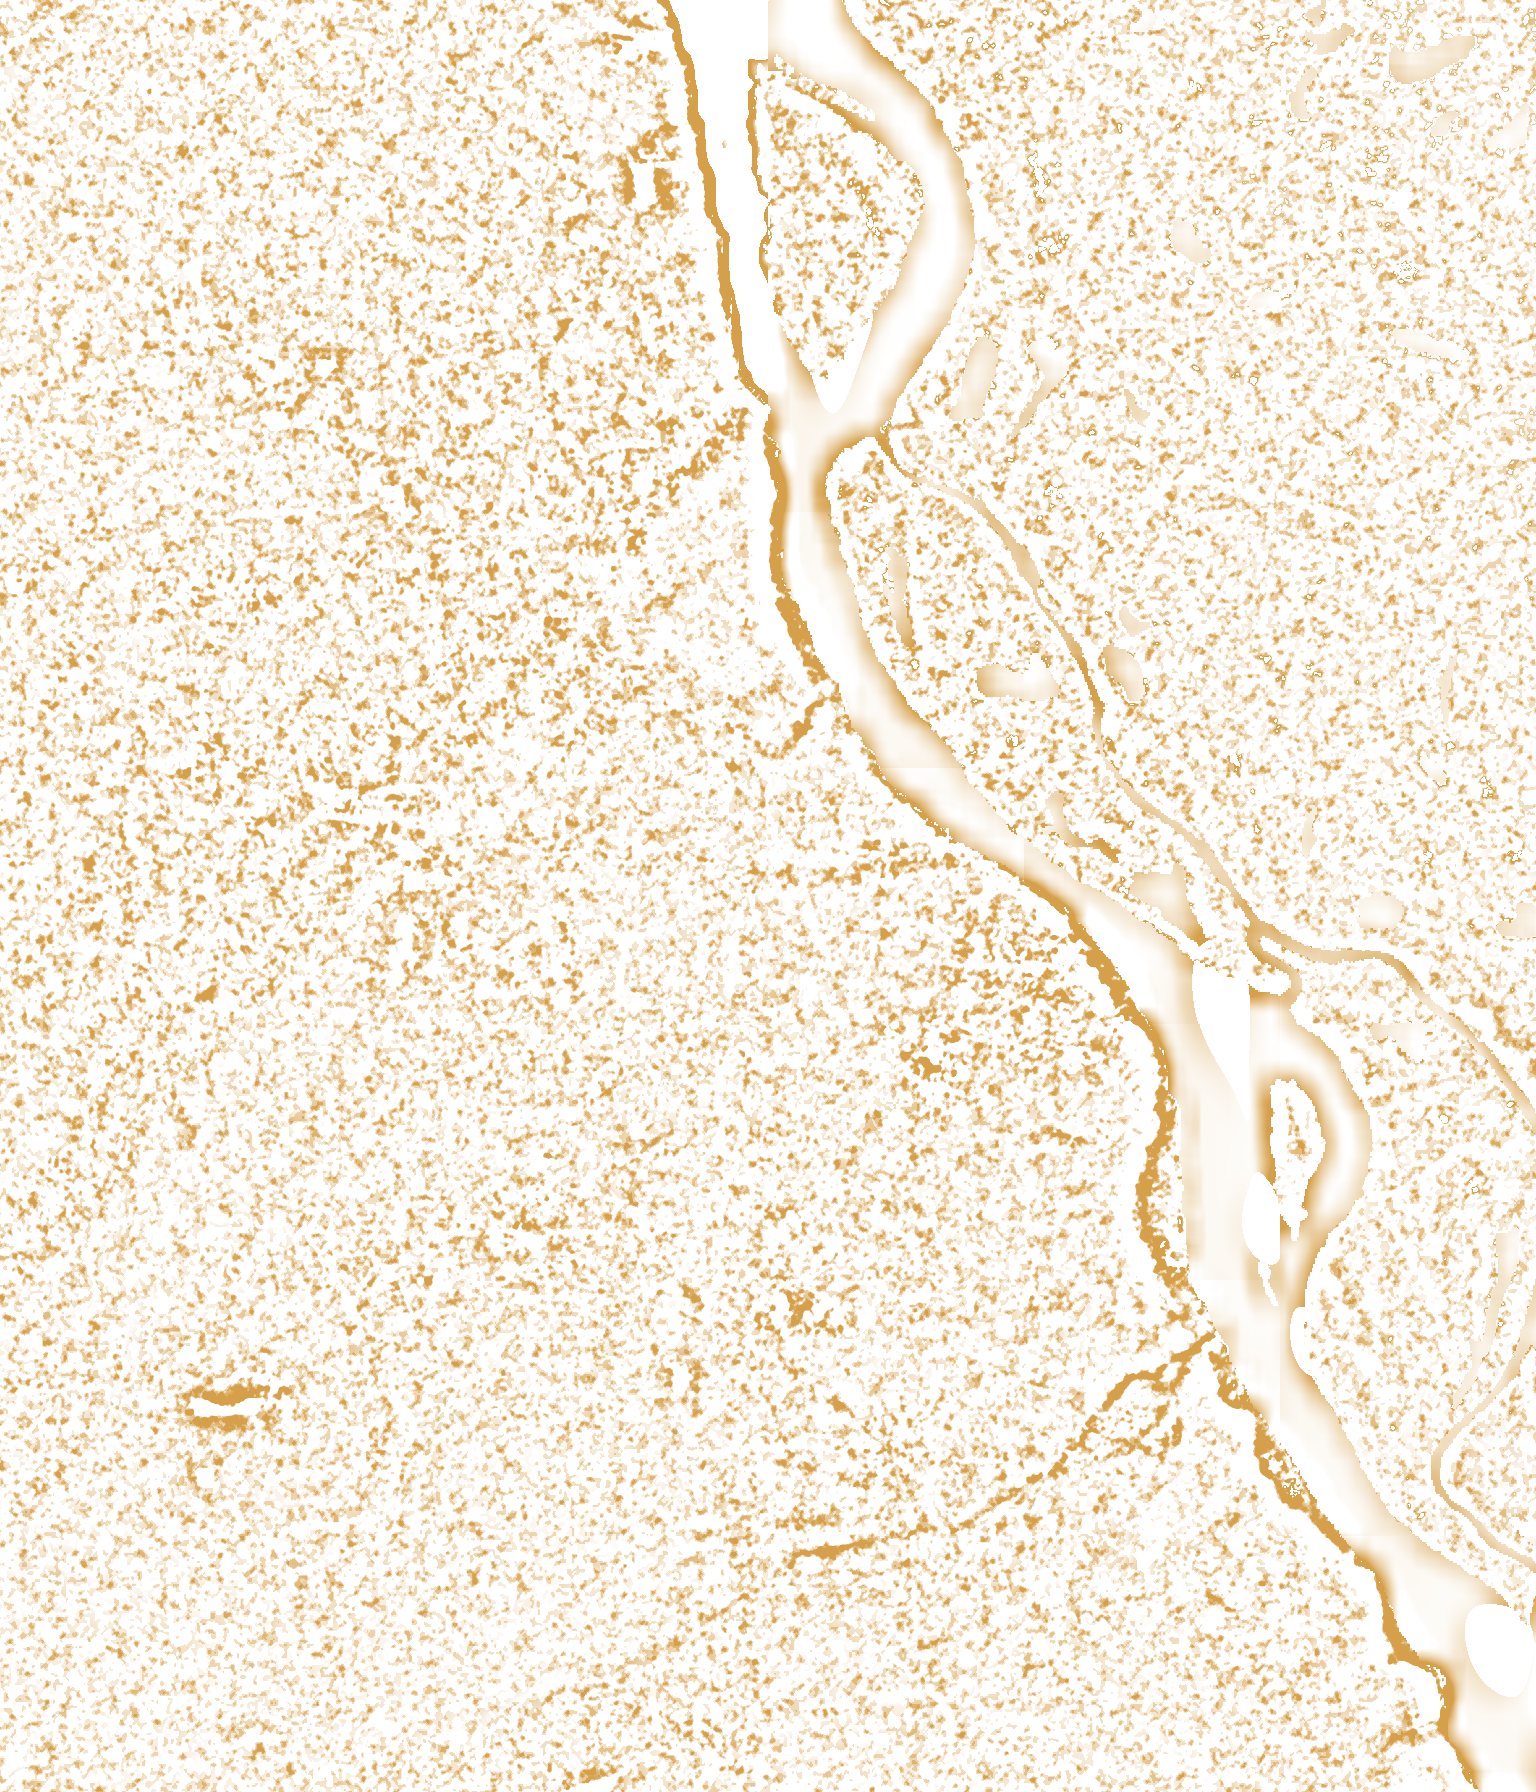
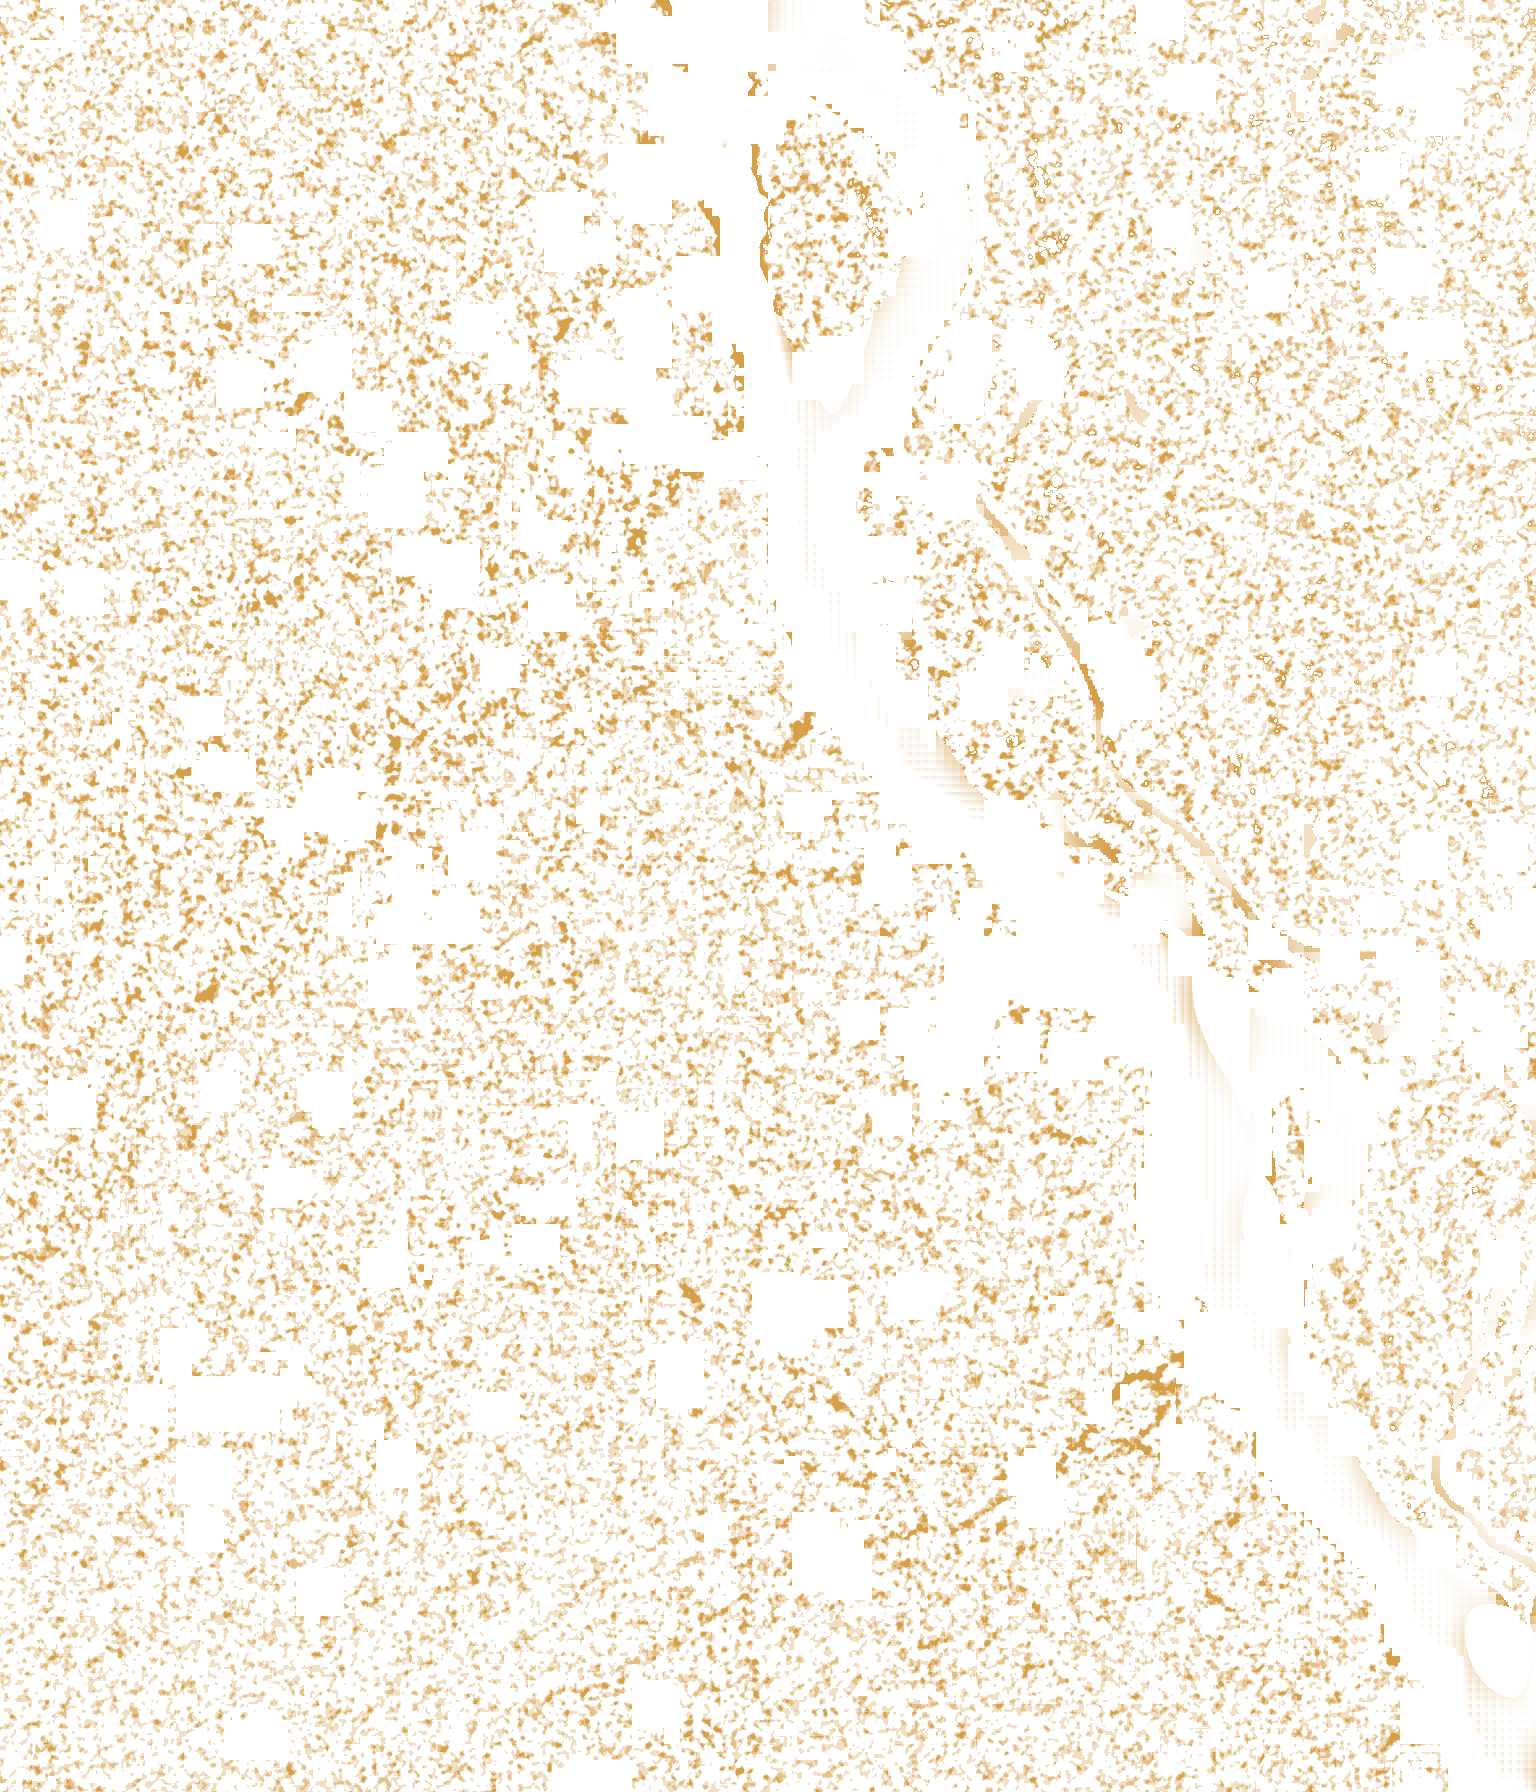
fix(terrain): median reference with a built-up guard for the surface DEM
SRTM measures rooftops, so in the dense core a flat street read as 3 m
below the mean of its 321 m surroundings, which were mostly building
tops. The reference is now the window median, sampled per 8 px block,
and cells whose window spread (max minus median) exceeds 8 m, above the
75th percentile of the city, are marked as built-up and get no reading.
That flag travels in the red channel of the overlay PNG, invisible at
alpha 0, and the address lookup reports "no reliable reading here"
instead of a number. The downtown probe drops from a false 2.96 m to
built-up while the real Luduena depression keeps its 2.00 m. The lookup
threshold rises from 0.3 m to 1 m, above the DEM's relative noise.

diff --git a/src/components/FloodMap.tsx b/src/components/FloodMap.tsx
@@ -14,7 +14,7 @@ const NOMINATIM = "https://nominatim.openstreetmap.org/search";
 const ROSARIO_VIEWBOX = "-60.79,-32.83,-60.58,-33.06";
 const TERRAIN_OPACITY = 0.8;
 const TERRAIN_COLOR = "#d6a04a";
-const LOW_POINT_MIN_M = 0.3;
+const LOW_POINT_MIN_M = 1;
 
 interface FloodMapProps {
   zonas: { zona: string; nivel: RiskLevel }[];
@@ -27,14 +27,17 @@ interface TerrainMeta {
   alto: number;
   escalaMaximaMetros: number;
   ventanaMetros: number;
+  rojoEdificado: number;
 }
+
+type LecturaTerreno = { estado: "bajo" | "plano" | "edificado"; metros: number } | null;
 
 interface Hallazgo {
   etiqueta: string;
   zona?: string;
   nivel?: RiskLevel;
   dentro: boolean;
-  hundimiento: number | null;
+  terreno: LecturaTerreno;
 }
 
 function pointInPolygon(lat: number, lon: number, rings: number[][][]): boolean {
@@ -170,21 +173,27 @@ export function FloodMap({ zonas, buscador = false }: FloodMapProps) {
     };
   }, [collection, terrain, nivelDeZona, mostrarTerreno]);
 
-  const hundimientoEn = async (lat: number, lon: number): Promise<number | null> => {
+  const lecturaTerrenoEn = async (lat: number, lon: number): Promise<LecturaTerreno> => {
     if (!terrain) {
       return null;
     }
     if (!terrainPixelsRef.current) {
       terrainPixelsRef.current = await loadTerrainPixels(terrain);
     }
-    const { bounds, ancho, alto, escalaMaximaMetros } = terrain;
+    const { bounds, ancho, alto, escalaMaximaMetros, rojoEdificado } = terrain;
     const col = Math.floor(((lon - bounds.west) / (bounds.east - bounds.west)) * ancho);
     const row = Math.floor(((mercator(bounds.north) - mercator(lat)) / (mercator(bounds.north) - mercator(bounds.south))) * alto);
     if (col < 0 || row < 0 || col >= ancho || row >= alto) {
       return null;
     }
-    const alpha = terrainPixelsRef.current[(row * ancho + col) * 4 + 3];
-    return (alpha / 255) * escalaMaximaMetros;
+    const offset = (row * ancho + col) * 4;
+    const red = terrainPixelsRef.current[offset];
+    const alpha = terrainPixelsRef.current[offset + 3];
+    if (alpha === 0 && red === rojoEdificado) {
+      return { estado: "edificado", metros: 0 };
+    }
+    const metros = (alpha / 255) * escalaMaximaMetros;
+    return { estado: metros >= LOW_POINT_MIN_M ? "bajo" : "plano", metros };
   };
 
   const buscar = async (event: React.FormEvent) => {
@@ -214,7 +223,7 @@ export function FloodMap({ zonas, buscador = false }: FloodMapProps) {
       const lon = Number(results[0].lon);
       const match = collection.features.find((feature) => pointInPolygon(lat, lon, feature.geometry.coordinates));
       const zona = (match?.properties as { zona?: string } | undefined)?.zona?.trim();
-      const hundimiento = await hundimientoEn(lat, lon).catch(() => null);
+      const terreno = await lecturaTerrenoEn(lat, lon).catch(() => null);
 
       const map = mapRef.current;
       if (map) {
@@ -235,7 +244,7 @@ export function FloodMap({ zonas, buscador = false }: FloodMapProps) {
         zona,
         nivel: zona ? nivelDeZona(zona) : undefined,
         dentro: Boolean(match),
-        hundimiento,
+        terreno,
       });
     } catch {
       setError("El buscador de direcciones no respondió. Probá de nuevo en un momento.");
@@ -243,8 +252,6 @@ export function FloodMap({ zonas, buscador = false }: FloodMapProps) {
       setBuscando(false);
     }
   };
-
-  const esPuntoBajo = hallazgo?.hundimiento !== null && hallazgo?.hundimiento !== undefined && hallazgo.hundimiento >= LOW_POINT_MIN_M;
 
   return (
     <div className="relative isolate h-full w-full">
@@ -285,16 +292,21 @@ export function FloodMap({ zonas, buscador = false }: FloodMapProps) {
                 ) : (
                   <p className="leading-relaxed text-ink">Fuera de los polígonos oficiales, que cubren el Ludueña y el Saladillo.</p>
                 )}
-                {hallazgo.hundimiento !== null ? (
+                {hallazgo.terreno ? (
                   <p className="leading-relaxed text-ink-soft">
-                    {esPuntoBajo ? (
+                    {hallazgo.terreno.estado === "bajo" ? (
                       <>
                         Según el modelo de terreno está{" "}
-                        <span className="readout text-ink">{hallazgo.hundimiento.toFixed(1)} m</span> por debajo de su entorno de{" "}
+                        <span className="readout text-ink">{hallazgo.terreno.metros.toFixed(1)} m</span> por debajo de la mediana de su entorno de{" "}
                         {terrain?.ventanaMetros} m: ahí el agua tiende a juntarse.
                       </>
+                    ) : hallazgo.terreno.estado === "plano" ? (
+                      <>Según el modelo de terreno no es un punto bajo respecto de la mediana de su entorno de {terrain?.ventanaMetros} m.</>
                     ) : (
-                      <>Según el modelo de terreno no es un punto bajo respecto de su entorno de {terrain?.ventanaMetros} m.</>
+                      <>
+                        Zona densamente edificada: el modelo de superficie mide techos y no distingue la calle de los edificios, así que acá
+                        no da una lectura confiable.
+                      </>
                     )}
                   </p>
                 ) : null}

diff --git a/src/lib/sources.ts b/src/lib/sources.ts
@@ -50,7 +50,7 @@ export const SOURCES: Record<string, SourceRef> = {
   terrain: {
     id: "terrain",
     organismo: "Modelo propio sobre Mapzen Terrain Tiles (SRTM, GMTED2010, ETOPO1)",
-    descripcion: "Puntos bajos del terreno: cuánto más bajo está cada punto que su entorno. No es una designación oficial",
+    descripcion: "Puntos bajos del terreno: cuánto más bajo está cada punto que la mediana de su entorno. No es una designación oficial",
     endpoint: "https://s3.amazonaws.com/elevation-tiles-prod/terrarium/{z}/{x}/{y}.png",
     portal: "https://registry.opendata.aws/terrain-tiles/",
     licencia: "Dominio público y CC0 según fuente · procesado en este panel",

diff --git a/README.md b/README.md
@@ -33,7 +33,7 @@ Imprime una URL `*.trycloudflare.com`. Usa `cloudflared.yml` con un `ingress` ex
 - GloFAS en las coordenadas del centro devuelve 0,03 m³/s: esa celda no tiene cauce. Se consulta la celda del canal (-32,975 / -60,675), que devuelve el caudal real (~17.000 m³/s).
 - 265 estaciones del INA publican `nivel_de_alerta: 0` como relleno. Los umbrales sólo se comparan cuando son mayores a cero.
 - El archivo municipal se llama "Saladillo" pero tres cuartos de sus polígonos son del Ludueña.
-- El modelo de terreno mide cuánto más bajo está cada punto que su entorno de 321 m: encuentra pozos locales (macrocentro), no llanuras de inundación. Por eso marca la zona 1 del Ludueña a 1,94 m bajo su entorno y deja en cero el valle del Saladillo, que es bajo pero plano.
+- El modelo de terreno mide cuánto más bajo está cada punto que la **mediana** de su entorno de 321 m. Se usa la mediana y no la media porque SRTM es un modelo de superficie: mide techos, y con la media una calle plana del microcentro leía 3 m "por debajo" de las torres de al lado. Encuentra pozos locales, no llanuras de inundación: por eso deja en cero el valle del Saladillo, que es bajo pero plano.
 - Cada fuente falla por separado: si un organismo no responde, el bloque queda vacío con la hora de la falla. Nunca un 500 ni un falso "sin riesgo".
 
 Cota no es un servicio oficial de alerta. Ante una emergencia, Defensa Civil 103.
